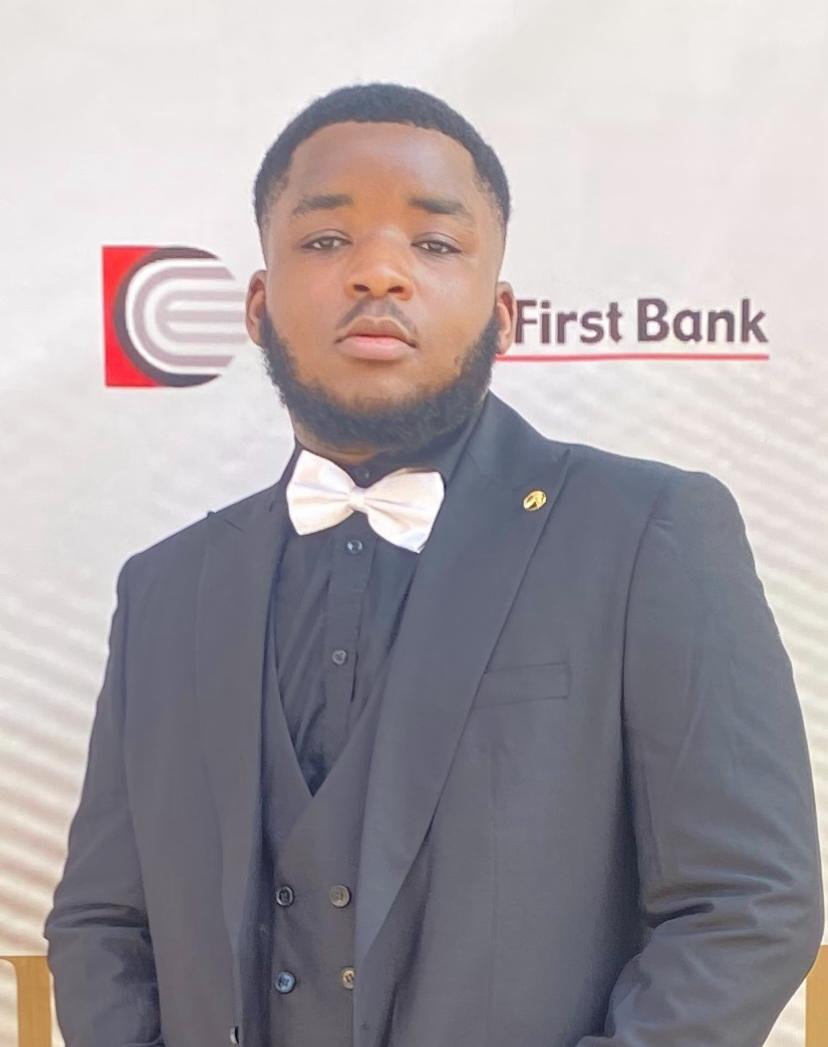
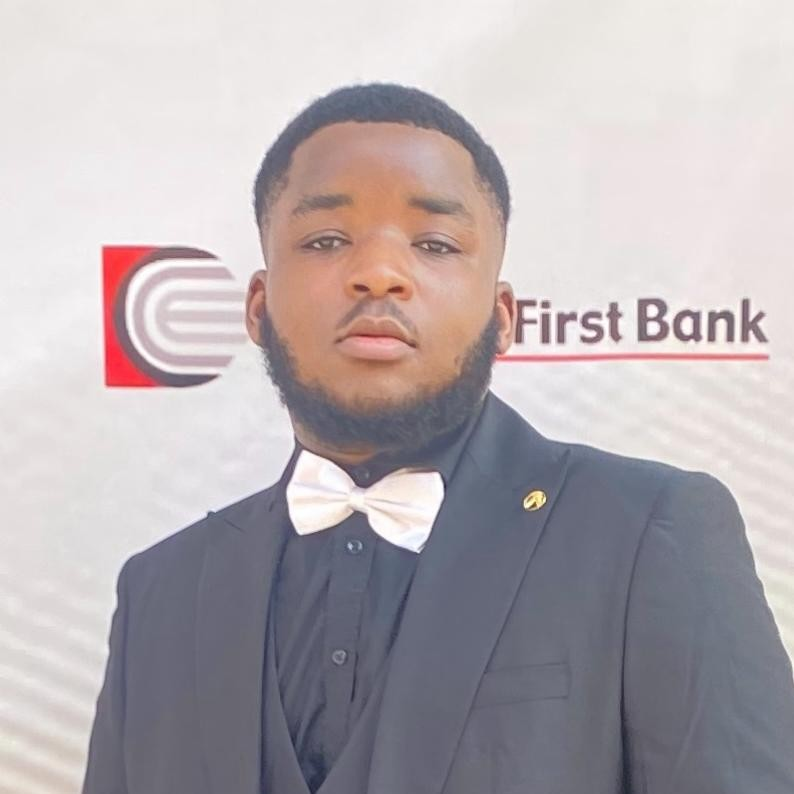
Team pics and mock fixes

diff --git a/frontend/src/pages/Spheres.tsx b/frontend/src/pages/Spheres.tsx
@@ -1,6 +1,6 @@
 import { useState, useEffect } from "react";
 import { useNavigate } from "react-router-dom";
-import { listSpheres, getCurrentUser, joinSphere, getUserSpheres } from "@/services/api";
+import { listSpheres, getCurrentUser, joinSphere, getUserSpheres, leaveSphere } from "@/services/api";
 import { Card, CardContent, CardHeader, CardTitle } from "@/components/ui/card";
 import { Button } from "@/components/ui/button";
 import { Input } from "@/components/ui/input";
@@ -101,6 +101,10 @@ export function Spheres() {
       } else {
         toast({ title: "Sphère rejoint !", description: `Succès pour ${sphereName}` });
         setUserJoinedSpheres(prev => [...prev, sphereId]);
+        const joinedSphere = allSpheres.find((sphere) => String(sphere.id) === String(sphereId));
+        if (joinedSphere) {
+          setUserSpheres((prev) => [joinedSphere, ...prev.filter((sphere) => String(sphere.id) !== String(sphereId))]);
+        }
       }
     } catch (e: any) {
       toast({ title: "Erreur", description: e?.message, variant: "destructive" });
@@ -109,13 +113,39 @@ export function Spheres() {
     }
   };
 
-  const handleLeaveSphere = (sphereId: string, sphereName: string) => {
-    toast({ title: "Sphère quittée", description: `Vous avez quitté "${sphereName}"` });
+  const handleLeaveSphere = async (sphereId: string, sphereName: string) => {
+    try {
+      await leaveSphere(sphereId);
+      toast({ title: "Sphère quittée", description: `Vous avez quitté "${sphereName}"` });
+      setUserJoinedSpheres((prev) => prev.filter((id) => String(id) !== String(sphereId)));
+      setUserSpheres((prev) => prev.filter((sphere) => String(sphere.id) !== String(sphereId)));
+    } catch (e: any) {
+      toast({ title: "Erreur", description: e?.message || "Impossible de quitter la sphère", variant: "destructive" });
+    }
   };
 
-  const handleRefresh = () => {
+  const handleRefresh = async () => {
     setIsLoading(true);
-    setTimeout(() => setIsLoading(false), 1000);
+    try {
+      const [spheresData, userSpheresData] = await Promise.all([listSpheres(), getUserSpheres()]);
+      setAllSpheres(spheresData || []);
+      const sphereIds = (userSpheresData || []).map((s: any) => String(s.id));
+      setUserJoinedSpheres(sphereIds);
+      setUserSpheres(userSpheresData || []);
+    } catch (e: any) {
+      toast({ title: "Erreur", description: e?.message || "Impossible d'actualiser", variant: "destructive" });
+    } finally {
+      setIsLoading(false);
+    }
+  };
+
+  const handleSphereCreated = (sphere: any) => {
+    if (!sphere) return;
+    setAllSpheres((prev) => [sphere, ...prev.filter((item) => String(item.id) !== String(sphere.id))]);
+    setUserJoinedSpheres((prev) =>
+      prev.includes(String(sphere.id)) ? prev : [String(sphere.id), ...prev]
+    );
+    setUserSpheres((prev) => [sphere, ...prev.filter((item) => String(item.id) !== String(sphere.id))]);
   };
 
   const categories = [
@@ -142,7 +172,7 @@ export function Spheres() {
               {isLoading ? <Loader2 className="h-4 w-4 animate-spin" /> : <RefreshCw className="h-4 w-4" />}
               Actualiser
             </Button>
-            <CreateSphereModal>
+            <CreateSphereModal onSphereCreated={handleSphereCreated}>
               <Button size="sm" className="campus-gradient text-white hover:opacity-90 gap-2 w-full sm:w-auto">
                 <Plus className="h-4 w-4" /> <span>Créer</span>
               </Button>

diff --git a/frontend/src/components/modals/CreateSphereModal.tsx b/frontend/src/components/modals/CreateSphereModal.tsx
@@ -11,6 +11,7 @@ import { Badge } from "@/components/ui/badge";
 import { Plus, Sparkles, Loader2, Check, Users, Lock, Globe, Shield, Bell, Settings } from "lucide-react";
 import { useToast } from "@/hooks/use-toast";
 import { z } from "zod";
+import { createSphere } from "@/services/api";
 
 interface SphereData {
   id: string;
@@ -147,42 +148,30 @@ export function CreateSphereModal({ children, onSphereCreated }: CreateSphereMod
   const handleSubmit = async () => {
     try {
       sphereSchema.parse({ name, description, objective, category, color, targetAudience, expectedDuration });
+
+      if (collaborationType.length === 0) {
+        toast({
+          title: "Type de collaboration requis",
+          description: "Veuillez sélectionner au moins un type de collaboration",
+          variant: "destructive",
+        });
+        return;
+      }
       
       setIsCreating(true);
-      
-      // Simuler la création de sphère
-      await new Promise(resolve => setTimeout(resolve, 2000));
-      
-      const sphereData = {
-        id: Date.now().toString(),
-        name,
-        description,
-        objective,
+
+      const sphereData = await createSphere({
+        name: name.trim(),
+        description: description.trim(),
         category,
         color,
-        isPrivate: false,
-        requireApproval,
-        allowMemberPosts,
-        allowResourceSharing,
-        allowTaskCreation,
-        maxMembers,
-        tags,
-        targetAudience,
-        expectedDuration,
-        collaborationType,
-        members: 1,
-        status: "Actif",
-        progress: 0,
-        impactScore: 0,
-        createdAt: new Date().toISOString(),
-        admin: {
-          name: "Vous",
-          username: "current_user",
-          avatar: "/placeholder-avatar.jpg"
-        }
-      };
-
-      console.log("Creating sphere:", sphereData);
+        is_private: false,
+        require_approval: requireApproval,
+        objective: objective.trim(),
+        target_audience: targetAudience,
+        duration: expectedDuration,
+        collaboration_types: collaborationType,
+      } as any);
 
       if (onSphereCreated) {
         onSphereCreated(sphereData);
@@ -204,7 +193,15 @@ export function CreateSphereModal({ children, onSphereCreated }: CreateSphereMod
           description: error.errors[0].message,
           variant: "destructive"
         });
+        return;
       }
+
+      const message = (error as any)?.message || "Impossible de créer la sphère";
+      toast({
+        title: "Erreur",
+        description: message,
+        variant: "destructive",
+      });
     }
   };
 

diff --git a/frontend/src/pages/public/About.tsx b/frontend/src/pages/public/About.tsx
@@ -36,7 +36,7 @@ export function About(): JSX.Element {
       role: "CFO & Community Manager",
       name: "Gwenaëlle Stelvana",
       description: "Responsable produit et design, Nathan façonne l’expérience utilisateur et guide la roadmap produit.",
-      avatar: "/Team/Gwen.jpg",
+      avatar: "/Team/Gwen.png",
     }
   ];
   return (
@@ -315,7 +315,7 @@ export function About(): JSX.Element {
             {teamMembers.map((member, index) => (
               <div className="campus-card text-center hover:scale-105 transition-all duration-300 campus-animate-slide-up animation-delay-1s">
               <div className="aspect-square bg-gradient-to-br from-primary/20 to-primary/5 rounded-t-lg flex items-center justify-center">
-                <img src={member.avatar} alt={member.name} className="w-full h-full rounded-t-lg" />
+                <img src={member.avatar} alt={member.name} className="w-full h-full rounded-t-lg object-cover" />
               </div>
               <div className="p-6">
               <div className="font-bold text-lg mb-1 font-poppins">{member.name}</div>

diff --git a/frontend/src/services/api.ts b/frontend/src/services/api.ts
@@ -485,12 +485,20 @@ export async function createSphere(data: {
   category?: string;
   type?: string;
   is_private?: boolean;
+  require_approval?: boolean;
+  color?: string;
+  icon?: string;
+  objective?: string;
+  target_audience?: string;
+  duration?: string;
+  collaboration_types?: string[];
 }, token?: string) {
-  return apiFetch<any>("api/spheres/", {
+  const response = await apiFetch<any>("api/spheres/", {
     method: "POST",
     body: data,
     token: token || getAccessToken(),
   });
+  return normalizeSphere(unwrapItem(response));
 }
 
 export async function updateSphere(id: number | string, data: Partial<{
